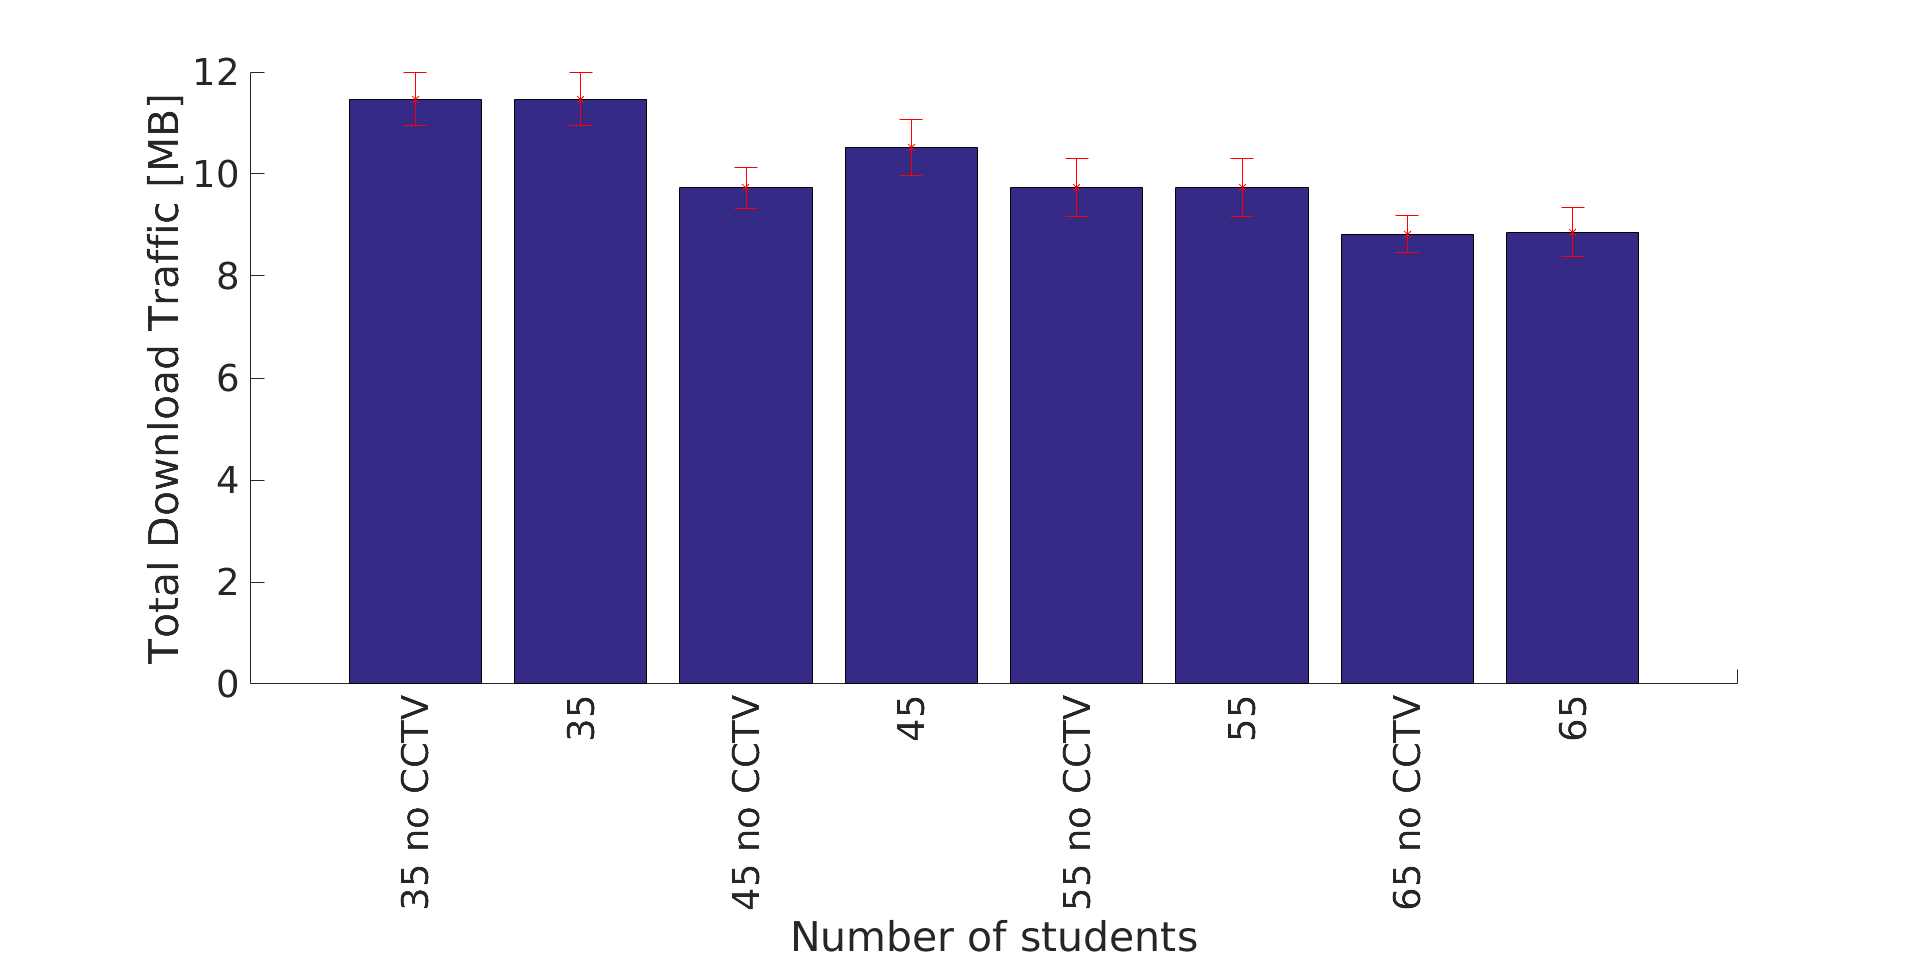
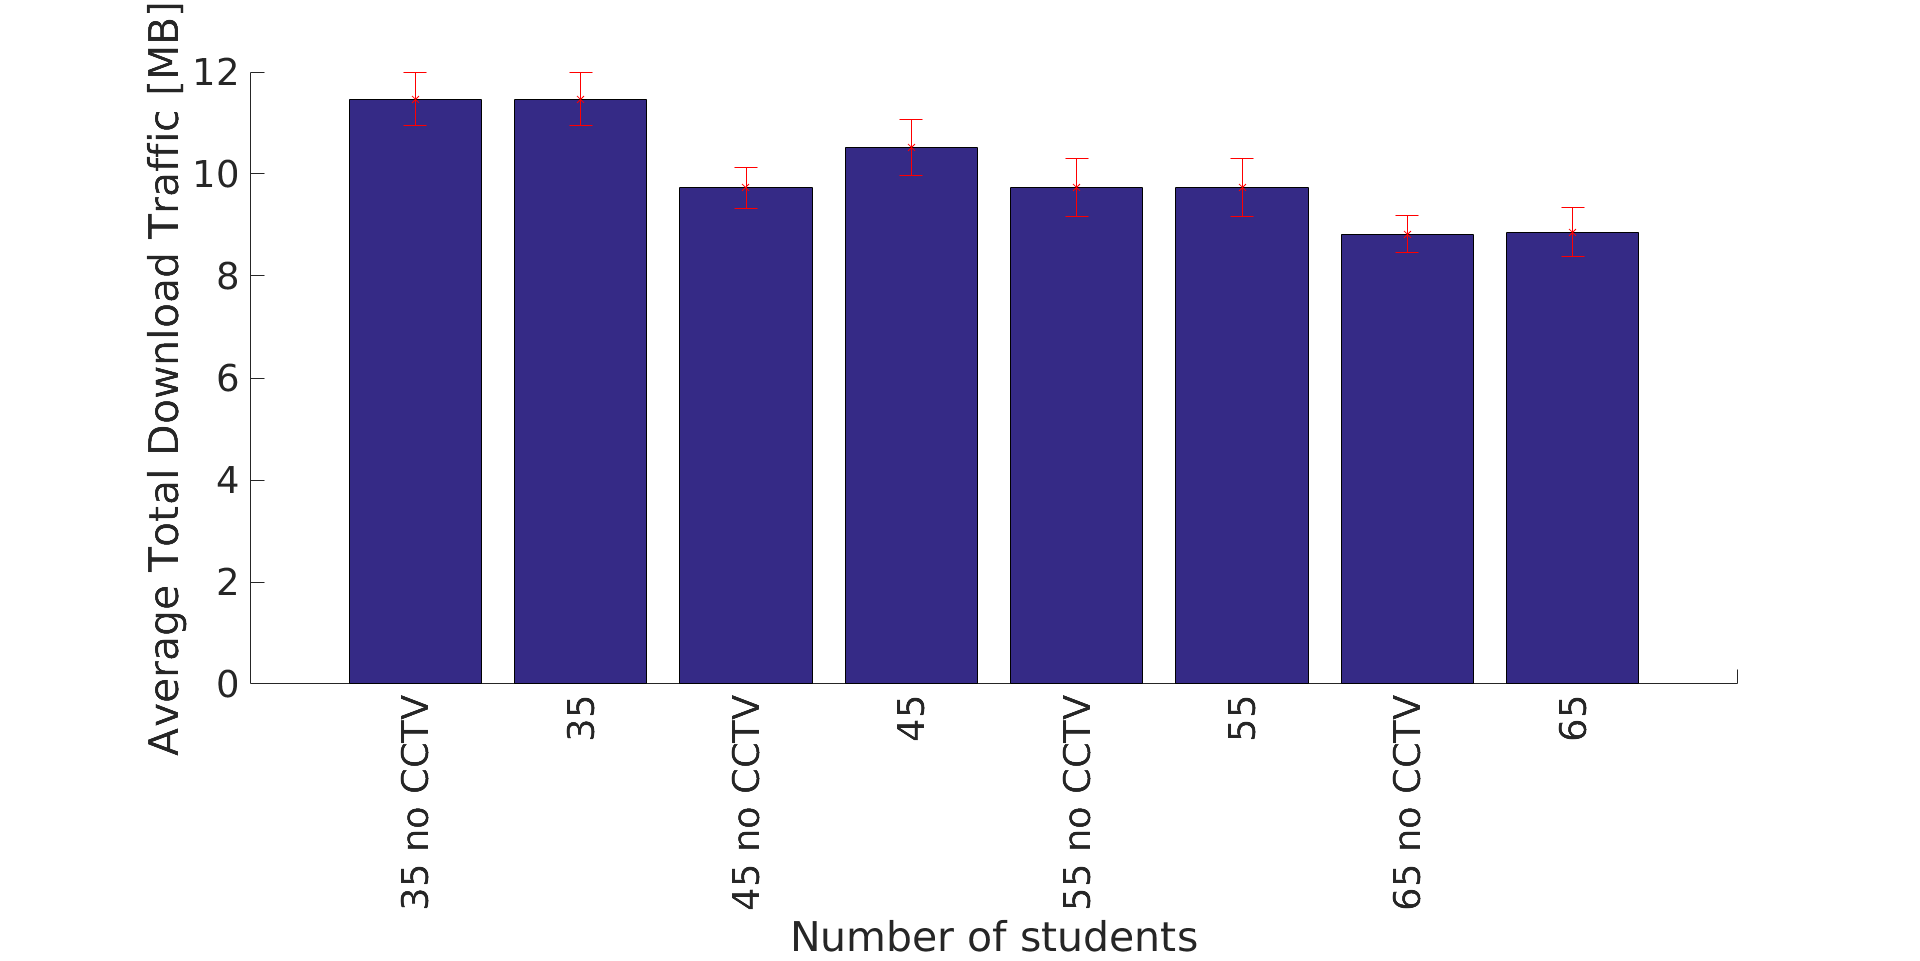
http graph ylabel change

Changed region(s): [[0.0625, 0.0, 0.0938, 0.7804]]

diff --git a/exam_project/Results_Analysis/HTTP/plot_http_throughput.m b/exam_project/Results_Analysis/HTTP/plot_http_throughput.m
@@ -18,7 +18,7 @@ function plot_http_throughput()
     bar(meansVec)
     %errorbar(1:1:length(filenames), meansVec, CIsVec(1:end, 1), CIsVec(1:end, 2), 'rx')    
     errorbar(1:1:length(filenames), meansVec, CIsVec(1:end, 2) - CIsVec(1:end, 1), 'rx')    
-    ylabel('Total Download Traffic [MB]');
+    ylabel('Average Total Download Traffic [MB]');
     xlabel('Number of students');
     set(gca,'XTickLabel',{'', '35 no CCTV', '35', '45 no CCTV', '45', '55 no CCTV', '55', '65 no CCTV', '65'})
     set(gca,'XTickLabelRotation', 90)
